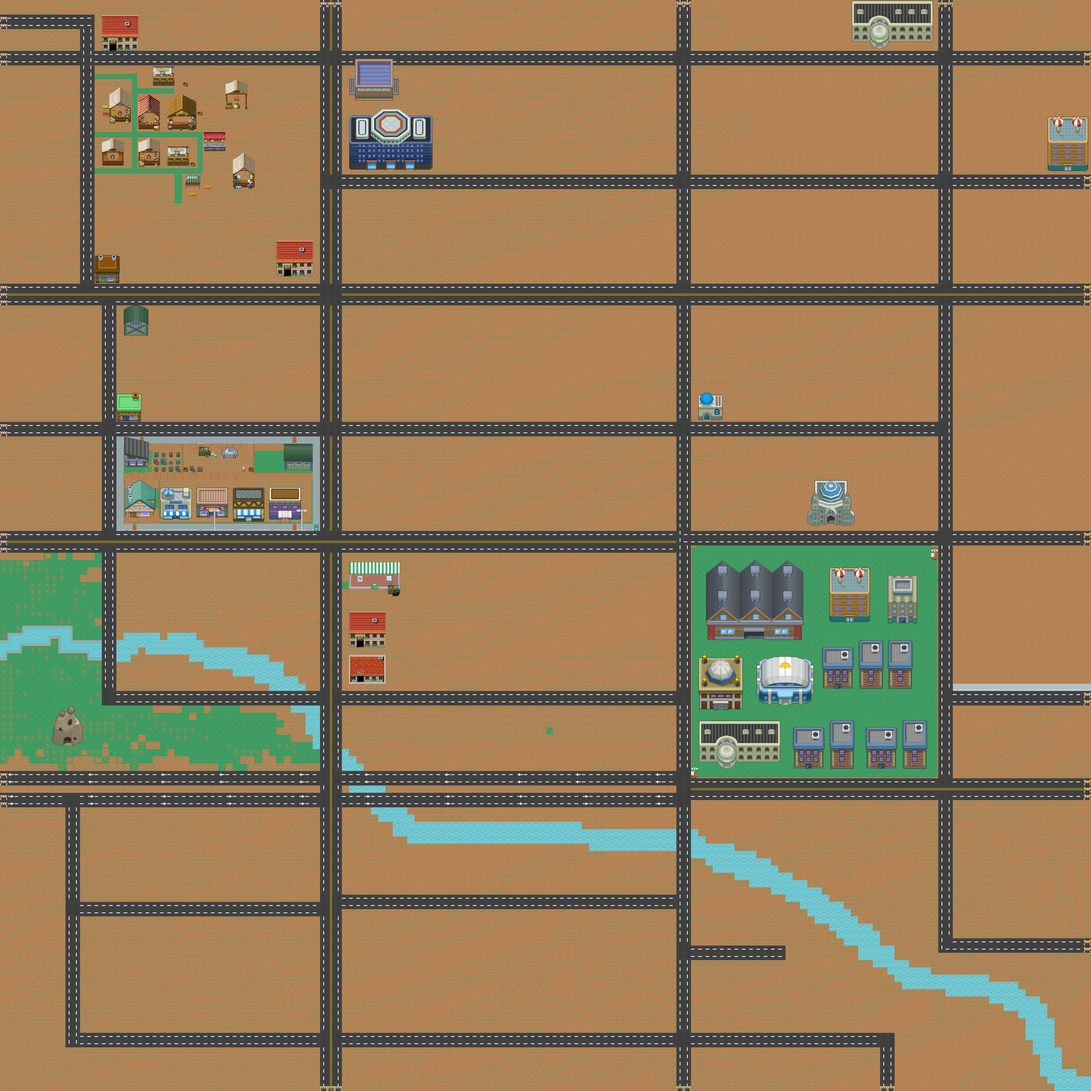
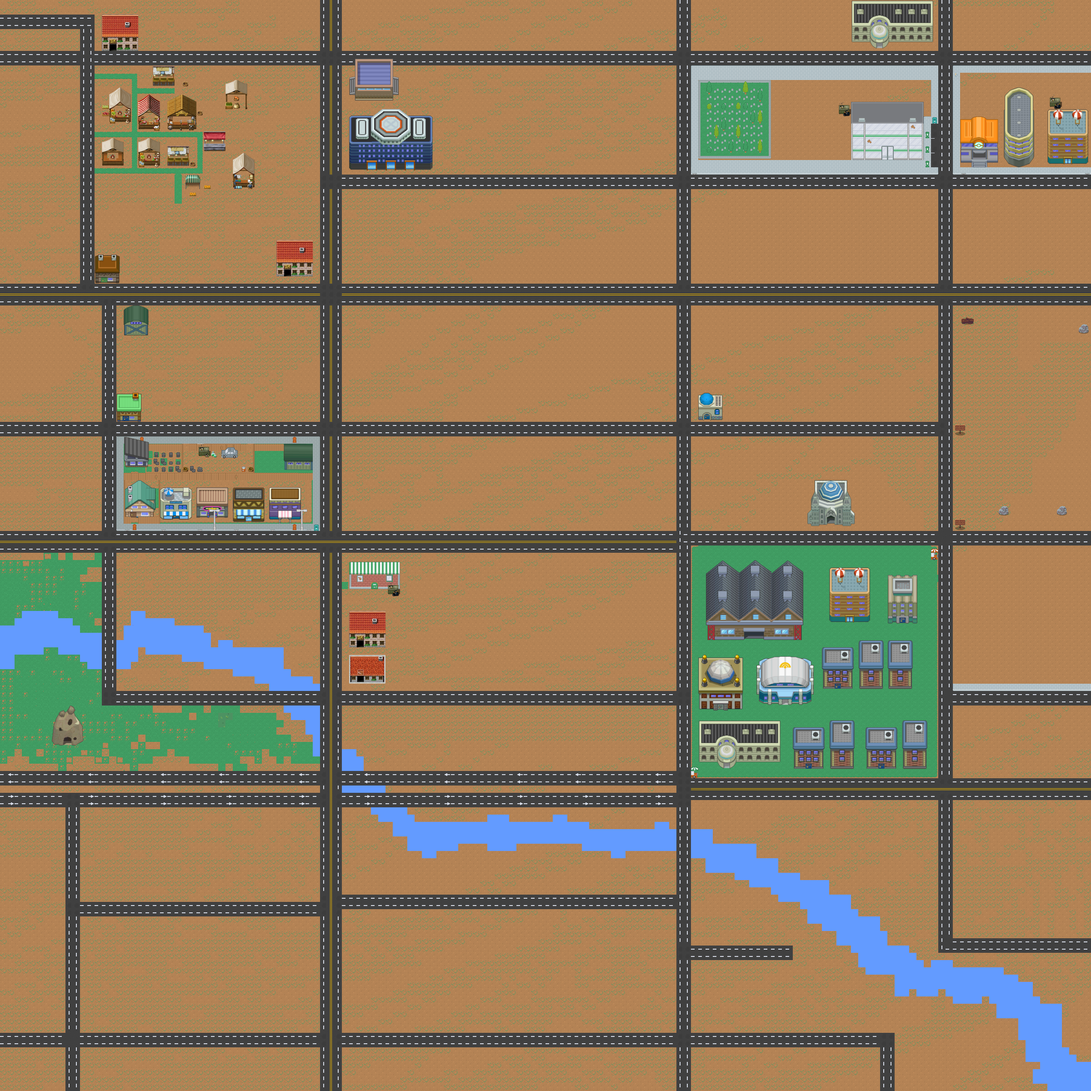
more map enhancements;

diff --git a/resources/src/maps/nature.tsx b/resources/src/maps/nature.tsx
@@ -1,0 +1,4 @@
+<?xml version="1.0" encoding="UTF-8"?>
+<tileset version="1.4" tiledversion="1.4.1" name="nature" tilewidth="32" tileheight="32" tilecount="180" columns="20">
+ <image source="assets/nature.png" width="641" height="288"/>
+</tileset>

diff --git a/src/Vehicle.cpp b/src/Vehicle.cpp
@@ -58,10 +58,10 @@ Vehicle::Vehicle(sf::Texture texture, const sf::Vector2i& size, BackgroundShared
       _background { bg },
       _tilesize { _background->tilesize() }
 {
-    _path.points().emplace_back(47,266);
-    _path.points().emplace_back(153,266);
-    _path.points().emplace_back(153,338);
-    _path.points().emplace_back(47,338);
+    _path.points().emplace_back(0,386);
+    _path.points().emplace_back(464,386);
+    _path.points().emplace_back(464,23);
+    _path.points().emplace_back(530,23);
 
     _texture.setSmooth(true);
     setSource(0, 1);
